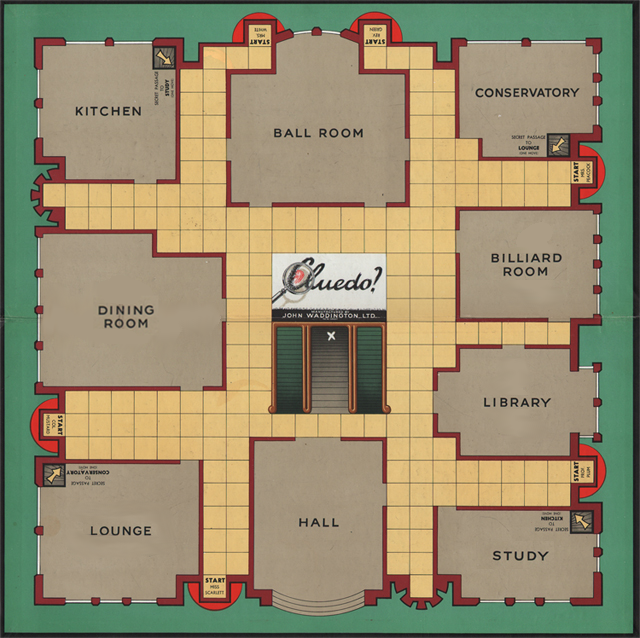
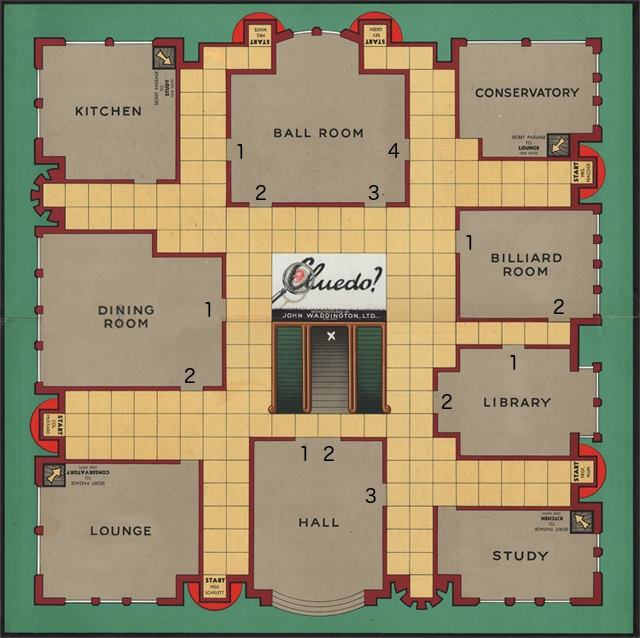
Leaving Room

diff --git a/CluedoGameAssignment2/src/SendMessageButtonListener.java b/CluedoGameAssignment2/src/SendMessageButtonListener.java
@@ -9,7 +9,7 @@ public class SendMessageButtonListener implements ActionListener {
 	
 	public int i=0;
 	public int done=0;
-	public int moveCounter;
+	public static int moveCounter;
 	public boolean error=false;
 	
 	public Board board;
@@ -104,8 +104,6 @@ public class SendMessageButtonListener implements ActionListener {
 						board.tokenAL.get(i%Main.numPlayers).setBounds(board.tokenAL.get(i%Main.numPlayers).xcoordinate, board.tokenAL.get(i%Main.numPlayers).ycoordinate, board.tokenAL.get(i%Main.numPlayers).imageIcon.getIconWidth(), board.tokenAL.get(i%Main.numPlayers).imageIcon.getIconHeight());
 					}
 					else if(board.tokenAL.get(i%Main.numPlayers).slot == 9) {
-						board.tokenAL.get(i%Main.numPlayers).AddtoKitchen();
-						board.tokenAL.get(i%Main.numPlayers).setBounds(board.tokenAL.get(i%Main.numPlayers).xcoordinate, board.tokenAL.get(i%Main.numPlayers).ycoordinate, board.tokenAL.get(i%Main.numPlayers).imageIcon.getIconWidth(), board.tokenAL.get(i%Main.numPlayers).imageIcon.getIconHeight());
 					}
 					else if(board.tokenAL.get(i%Main.numPlayers).slot == 3) {
 						board.tokenAL.get(i%Main.numPlayers).AddtoLounge();
@@ -400,6 +398,207 @@ public class SendMessageButtonListener implements ActionListener {
 	public void diceRoll(Display display, TextualCommand textualcommand) {
 		display.textarea.append(textualcommand.textfield.getText() + "\n" + "<-------" + Main.playerNames[i%Main.numPlayers]+" rolled the dice ------->\n");	
 		display.textarea.append("<" + Main.playerNames[i%Main.numPlayers] + " has " + moveCounter +" moves.>" );
+		ExitOption();
+	}
+	
+	//Exit option
+	public void ExitOption() {
+		if(board.tokenAL.get(i%Main.numPlayers).slot != 0) {
+			String text = textualcommand.textfield.getText().trim();
+			
+			if(board.tokenAL.get(i%Main.numPlayers).slot == 1 || board.tokenAL.get(i%Main.numPlayers).slot == 3 || board.tokenAL.get(i%Main.numPlayers).slot == 7 || board.tokenAL.get(i%Main.numPlayers).slot == 9) {
+				int accepted = 0;
+				
+				if(board.tokenAL.get(i%Main.numPlayers).slot == 1) {
+					while(accepted == 0) {
+						display.textarea.append("Would you like to exit or use a passage" );
+						text = textualcommand.textfield.getText().trim();
+						
+						if(text.equalsIgnoreCase("exit")) {
+							accepted = 1;
+							board.tokenAL.get(i%Main.numPlayers).xcoordinate = Board.KitchenEntrancex;
+							board.tokenAL.get(i%Main.numPlayers).ycoordinate = Board.KitchenEntrancey;
+							board.tokenAL.get(i%Main.numPlayers).setBounds(board.tokenAL.get(i%Main.numPlayers).xcoordinate, board.tokenAL.get(i%Main.numPlayers).ycoordinate, board.tokenAL.get(i%Main.numPlayers).imageIcon.getIconWidth(), board.tokenAL.get(i%Main.numPlayers).imageIcon.getIconHeight());
+							
+						}
+						else if(text.equalsIgnoreCase("passage")) {
+							accepted = 1;
+							board.tokenAL.get(i%Main.numPlayers).AddtoStudy();
+							board.tokenAL.get(i%Main.numPlayers).setBounds(board.tokenAL.get(i%Main.numPlayers).xcoordinate, board.tokenAL.get(i%Main.numPlayers).ycoordinate, board.tokenAL.get(i%Main.numPlayers).imageIcon.getIconWidth(), board.tokenAL.get(i%Main.numPlayers).imageIcon.getIconHeight());
+						}
+					}
+				}
+				else if(board.tokenAL.get(i%Main.numPlayers).slot == 3) {
+					while(accepted == 0) {
+						display.textarea.append("Would you like to exit or use a passage" );
+						text = textualcommand.textfield.getText().trim();
+						
+						if(text.equalsIgnoreCase("exit")) {
+							accepted = 1;
+							board.tokenAL.get(i%Main.numPlayers).xcoordinate = Board.ConservatoryEntrancex;
+							board.tokenAL.get(i%Main.numPlayers).ycoordinate = Board.ConservatoryEntrancey;
+							board.tokenAL.get(i%Main.numPlayers).setBounds(board.tokenAL.get(i%Main.numPlayers).xcoordinate, board.tokenAL.get(i%Main.numPlayers).ycoordinate, board.tokenAL.get(i%Main.numPlayers).imageIcon.getIconWidth(), board.tokenAL.get(i%Main.numPlayers).imageIcon.getIconHeight());
+							
+						}
+						else if(text.equalsIgnoreCase("passage")) {
+							accepted = 1;
+							board.tokenAL.get(i%Main.numPlayers).AddtoLounge();
+							board.tokenAL.get(i%Main.numPlayers).setBounds(board.tokenAL.get(i%Main.numPlayers).xcoordinate, board.tokenAL.get(i%Main.numPlayers).ycoordinate, board.tokenAL.get(i%Main.numPlayers).imageIcon.getIconWidth(), board.tokenAL.get(i%Main.numPlayers).imageIcon.getIconHeight());
+						}
+					}
+				}
+				else if(board.tokenAL.get(i%Main.numPlayers).slot == 7) {
+					while(accepted == 0) {
+						display.textarea.append("Would you like to exit or use a passage" );
+						text = textualcommand.textfield.getText().trim();
+						
+						if(text.equalsIgnoreCase("exit")) {
+							accepted = 1;
+							board.tokenAL.get(i%Main.numPlayers).xcoordinate = Board.LoungeEntrancex;
+							board.tokenAL.get(i%Main.numPlayers).ycoordinate = Board.LoungeEntrancey;
+							board.tokenAL.get(i%Main.numPlayers).setBounds(board.tokenAL.get(i%Main.numPlayers).xcoordinate, board.tokenAL.get(i%Main.numPlayers).ycoordinate, board.tokenAL.get(i%Main.numPlayers).imageIcon.getIconWidth(), board.tokenAL.get(i%Main.numPlayers).imageIcon.getIconHeight());
+							
+						}
+						else if(text.equalsIgnoreCase("passage")) {
+							accepted = 1;
+							board.tokenAL.get(i%Main.numPlayers).AddtoConservatory();
+							board.tokenAL.get(i%Main.numPlayers).setBounds(board.tokenAL.get(i%Main.numPlayers).xcoordinate, board.tokenAL.get(i%Main.numPlayers).ycoordinate, board.tokenAL.get(i%Main.numPlayers).imageIcon.getIconWidth(), board.tokenAL.get(i%Main.numPlayers).imageIcon.getIconHeight());
+						}
+					}
+				}
+				else {
+					while(accepted == 0) {
+						display.textarea.append("Would you like to exit or use a passage" );
+						text = textualcommand.textfield.getText().trim();
+						
+						if(text.equalsIgnoreCase("exit")) {
+							accepted = 1;
+							board.tokenAL.get(i%Main.numPlayers).xcoordinate = Board.StudyEntrancex;
+							board.tokenAL.get(i%Main.numPlayers).ycoordinate = Board.StudyEntrancey;
+							board.tokenAL.get(i%Main.numPlayers).setBounds(board.tokenAL.get(i%Main.numPlayers).xcoordinate, board.tokenAL.get(i%Main.numPlayers).ycoordinate, board.tokenAL.get(i%Main.numPlayers).imageIcon.getIconWidth(), board.tokenAL.get(i%Main.numPlayers).imageIcon.getIconHeight());
+							
+						}
+						else if(text.equalsIgnoreCase("passage")) {
+							accepted = 1;
+							board.tokenAL.get(i%Main.numPlayers).AddtoKitchen();
+							board.tokenAL.get(i%Main.numPlayers).setBounds(board.tokenAL.get(i%Main.numPlayers).xcoordinate, board.tokenAL.get(i%Main.numPlayers).ycoordinate, board.tokenAL.get(i%Main.numPlayers).imageIcon.getIconWidth(), board.tokenAL.get(i%Main.numPlayers).imageIcon.getIconHeight());
+						}
+					}
+				}
+			}
+
+			else {
+				display.textarea.append("Choose an exit (1-4)");
+				int accepted = 0;
+				
+				if(board.tokenAL.get(i%Main.numPlayers).slot == 2) {
+					while(accepted == 0) {
+						text = textualcommand.textfield.getText().trim();
+						
+						if(text.equalsIgnoreCase("1")) {
+							accepted = 1;
+							board.tokenAL.get(i%Main.numPlayers).xcoordinate = Board.BallRoomEntrance1x;
+							board.tokenAL.get(i%Main.numPlayers).ycoordinate = Board.BallRoomEntrance1y;
+							board.tokenAL.get(i%Main.numPlayers).setBounds(board.tokenAL.get(i%Main.numPlayers).xcoordinate, board.tokenAL.get(i%Main.numPlayers).ycoordinate, board.tokenAL.get(i%Main.numPlayers).imageIcon.getIconWidth(), board.tokenAL.get(i%Main.numPlayers).imageIcon.getIconHeight());
+						}
+						else if(text.equalsIgnoreCase("2")) {
+							accepted = 1;
+							board.tokenAL.get(i%Main.numPlayers).xcoordinate = Board.BallRoomEntrance2x;
+							board.tokenAL.get(i%Main.numPlayers).ycoordinate = Board.BallRoomEntrance2y;
+							board.tokenAL.get(i%Main.numPlayers).setBounds(board.tokenAL.get(i%Main.numPlayers).xcoordinate, board.tokenAL.get(i%Main.numPlayers).ycoordinate, board.tokenAL.get(i%Main.numPlayers).imageIcon.getIconWidth(), board.tokenAL.get(i%Main.numPlayers).imageIcon.getIconHeight());
+						}
+						else if(text.equalsIgnoreCase("3")) {
+							accepted = 1;
+							board.tokenAL.get(i%Main.numPlayers).xcoordinate = Board.BallRoomEntrance3x;
+							board.tokenAL.get(i%Main.numPlayers).ycoordinate = Board.BallRoomEntrance3y;
+							board.tokenAL.get(i%Main.numPlayers).setBounds(board.tokenAL.get(i%Main.numPlayers).xcoordinate, board.tokenAL.get(i%Main.numPlayers).ycoordinate, board.tokenAL.get(i%Main.numPlayers).imageIcon.getIconWidth(), board.tokenAL.get(i%Main.numPlayers).imageIcon.getIconHeight());
+						}
+						else if(text.equalsIgnoreCase("4")) {
+							accepted = 1;
+							board.tokenAL.get(i%Main.numPlayers).xcoordinate = Board.BallRoomEntrance4x;
+							board.tokenAL.get(i%Main.numPlayers).ycoordinate = Board.BallRoomEntrance4y;
+							board.tokenAL.get(i%Main.numPlayers).setBounds(board.tokenAL.get(i%Main.numPlayers).xcoordinate, board.tokenAL.get(i%Main.numPlayers).ycoordinate, board.tokenAL.get(i%Main.numPlayers).imageIcon.getIconWidth(), board.tokenAL.get(i%Main.numPlayers).imageIcon.getIconHeight());
+						}
+					}
+				}
+				else if(board.tokenAL.get(i%Main.numPlayers).slot == 4) {
+					while(accepted == 0) {
+						text = textualcommand.textfield.getText().trim();
+						
+						if(text.equalsIgnoreCase("1")) {
+							accepted = 1;
+							board.tokenAL.get(i%Main.numPlayers).xcoordinate = Board.DiningRoomEntrance1x;
+							board.tokenAL.get(i%Main.numPlayers).ycoordinate = Board.DiningRoomEntrance1y;
+							board.tokenAL.get(i%Main.numPlayers).setBounds(board.tokenAL.get(i%Main.numPlayers).xcoordinate, board.tokenAL.get(i%Main.numPlayers).ycoordinate, board.tokenAL.get(i%Main.numPlayers).imageIcon.getIconWidth(), board.tokenAL.get(i%Main.numPlayers).imageIcon.getIconHeight());
+							
+						}
+						else if(text.equalsIgnoreCase("2")) {
+							accepted = 1;
+							board.tokenAL.get(i%Main.numPlayers).xcoordinate = Board.DiningRoomEntrance2x;
+							board.tokenAL.get(i%Main.numPlayers).ycoordinate = Board.DiningRoomEntrance2y;
+							board.tokenAL.get(i%Main.numPlayers).setBounds(board.tokenAL.get(i%Main.numPlayers).xcoordinate, board.tokenAL.get(i%Main.numPlayers).ycoordinate, board.tokenAL.get(i%Main.numPlayers).imageIcon.getIconWidth(), board.tokenAL.get(i%Main.numPlayers).imageIcon.getIconHeight());
+						}
+					}
+				}
+				else if(board.tokenAL.get(i%Main.numPlayers).slot == 5) {
+					while(accepted == 0) {
+						text = textualcommand.textfield.getText().trim();
+						
+						if(text.equalsIgnoreCase("1")) {
+							accepted = 1;
+							board.tokenAL.get(i%Main.numPlayers).xcoordinate = Board.BilliardRoomEntrance1x;
+							board.tokenAL.get(i%Main.numPlayers).ycoordinate = Board.BilliardRoomEntrance1y;
+							board.tokenAL.get(i%Main.numPlayers).setBounds(board.tokenAL.get(i%Main.numPlayers).xcoordinate, board.tokenAL.get(i%Main.numPlayers).ycoordinate, board.tokenAL.get(i%Main.numPlayers).imageIcon.getIconWidth(), board.tokenAL.get(i%Main.numPlayers).imageIcon.getIconHeight());
+							
+						}
+						else if(text.equalsIgnoreCase("2")) {
+							accepted = 1;
+							board.tokenAL.get(i%Main.numPlayers).xcoordinate = Board.BilliardRoomEntrance2x;
+							board.tokenAL.get(i%Main.numPlayers).ycoordinate = Board.BilliardRoomEntrance2y;
+							board.tokenAL.get(i%Main.numPlayers).setBounds(board.tokenAL.get(i%Main.numPlayers).xcoordinate, board.tokenAL.get(i%Main.numPlayers).ycoordinate, board.tokenAL.get(i%Main.numPlayers).imageIcon.getIconWidth(), board.tokenAL.get(i%Main.numPlayers).imageIcon.getIconHeight());
+						}
+					}
+				}
+				else if(board.tokenAL.get(i%Main.numPlayers).slot == 6) {
+					while(accepted == 0) {
+						text = textualcommand.textfield.getText().trim();
+						
+						if(text.equalsIgnoreCase("1")) {
+							accepted = 1;
+							board.tokenAL.get(i%Main.numPlayers).xcoordinate = Board.LibraryEntrance1x;
+							board.tokenAL.get(i%Main.numPlayers).ycoordinate = Board.LibraryEntrance1y;
+							board.tokenAL.get(i%Main.numPlayers).setBounds(board.tokenAL.get(i%Main.numPlayers).xcoordinate, board.tokenAL.get(i%Main.numPlayers).ycoordinate, board.tokenAL.get(i%Main.numPlayers).imageIcon.getIconWidth(), board.tokenAL.get(i%Main.numPlayers).imageIcon.getIconHeight());
+							
+						}
+						else if(text.equalsIgnoreCase("2")) {
+							accepted = 1;
+							board.tokenAL.get(i%Main.numPlayers).xcoordinate = Board.LibraryEntrance2x;
+							board.tokenAL.get(i%Main.numPlayers).ycoordinate = Board.LibraryEntrance2y;
+							board.tokenAL.get(i%Main.numPlayers).setBounds(board.tokenAL.get(i%Main.numPlayers).xcoordinate, board.tokenAL.get(i%Main.numPlayers).ycoordinate, board.tokenAL.get(i%Main.numPlayers).imageIcon.getIconWidth(), board.tokenAL.get(i%Main.numPlayers).imageIcon.getIconHeight());
+						}
+					}
+				}
+				else {
+					while(accepted == 0) {
+						text = textualcommand.textfield.getText().trim();
+						
+						if(text.equalsIgnoreCase("1")) {
+							accepted = 1;
+							board.tokenAL.get(i%Main.numPlayers).xcoordinate = Board.HallEntrance1x;
+							board.tokenAL.get(i%Main.numPlayers).ycoordinate = Board.HallEntrance1y;
+							board.tokenAL.get(i%Main.numPlayers).setBounds(board.tokenAL.get(i%Main.numPlayers).xcoordinate, board.tokenAL.get(i%Main.numPlayers).ycoordinate, board.tokenAL.get(i%Main.numPlayers).imageIcon.getIconWidth(), board.tokenAL.get(i%Main.numPlayers).imageIcon.getIconHeight());
+							
+						}
+						else if(text.equalsIgnoreCase("2")) {
+							accepted = 1;
+							board.tokenAL.get(i%Main.numPlayers).xcoordinate = Board.HallEntrance2x;
+							board.tokenAL.get(i%Main.numPlayers).ycoordinate = Board.HallEntrance2y;
+							board.tokenAL.get(i%Main.numPlayers).setBounds(board.tokenAL.get(i%Main.numPlayers).xcoordinate, board.tokenAL.get(i%Main.numPlayers).ycoordinate, board.tokenAL.get(i%Main.numPlayers).imageIcon.getIconWidth(), board.tokenAL.get(i%Main.numPlayers).imageIcon.getIconHeight());
+						}
+					}
+				}
+			}
+		}
 	}
 	
 	//outputs remaining moves
@@ -494,7 +693,7 @@ public class SendMessageButtonListener implements ActionListener {
 		//moves still left
 		else { 
 			if(error == false) {
-				appendAndRemove();
+				//appendAndRemove();
 			}
 		}
 			

diff --git a/CluedoGameAssignment2/src/Token.java b/CluedoGameAssignment2/src/Token.java
@@ -301,6 +301,9 @@ public class Token extends JLabel{
 				this.xcoordinate = Board.KitchenSlots[1][i];
 				this.ycoordinate = Board.KitchenSlots[2][i];
 				
+				//Set moves to 0
+				SendMessageButtonListener.moveCounter = 0;
+				
 				//Exit the loop
 				break;
 			}
@@ -318,6 +321,9 @@ public class Token extends JLabel{
 				//Move the token to the slot
 				this.xcoordinate = Board.BallRoomSlots[1][i];
 				this.ycoordinate = Board.BallRoomSlots[2][i];
+				
+				//Set moves to 0
+				SendMessageButtonListener.moveCounter = 0;
 				
 				//Exit the loop
 				break;
@@ -337,6 +343,9 @@ public class Token extends JLabel{
 				this.xcoordinate = Board.ConservatorySlots[1][i];
 				this.ycoordinate = Board.ConservatorySlots[2][i];
 				
+				//Set moves to 0
+				SendMessageButtonListener.moveCounter = 0;
+				
 				//Exit the loop
 				break;
 			}
@@ -354,6 +363,9 @@ public class Token extends JLabel{
 				//Move the token to the slot
 				this.xcoordinate = Board.DiningRoomSlots[1][i];
 				this.ycoordinate = Board.DiningRoomSlots[2][i];
+				
+				//Set moves to 0
+				SendMessageButtonListener.moveCounter = 0;
 				
 				//Exit the loop
 				break;
@@ -373,6 +385,9 @@ public class Token extends JLabel{
 				this.xcoordinate = Board.BilliardRoomSlots[1][i];
 				this.ycoordinate = Board.BilliardRoomSlots[2][i];
 				
+				//Set moves to 0
+				SendMessageButtonListener.moveCounter = 0;
+				
 				//Exit the loop
 				break;
 			}
@@ -390,6 +405,9 @@ public class Token extends JLabel{
 				//Move the token to the slot
 				this.xcoordinate = Board.LibrarySlots[1][i];
 				this.ycoordinate = Board.LibrarySlots[2][i];
+				
+				//Set moves to 0
+				SendMessageButtonListener.moveCounter = 0;
 				
 				//Exit the loop
 				break;
@@ -409,6 +427,9 @@ public class Token extends JLabel{
 				this.xcoordinate = Board.LoungeSlots[1][i];
 				this.ycoordinate = Board.LoungeSlots[2][i];
 				
+				//Set moves to 0
+				SendMessageButtonListener.moveCounter = 0;
+				
 				//Exit the loop
 				break;
 			}
@@ -427,6 +448,9 @@ public class Token extends JLabel{
 				this.xcoordinate = Board.HallSlots[1][i];
 				this.ycoordinate = Board.HallSlots[2][i];
 				
+				//Set moves to 0
+				SendMessageButtonListener.moveCounter = 0;
+				
 				//Exit the loop
 				break;
 			}
@@ -444,6 +468,9 @@ public class Token extends JLabel{
 				//Move the token to the slot
 				this.xcoordinate = Board.StudySlots[1][i];
 				this.ycoordinate = Board.StudySlots[2][i];
+				
+				//Set moves to 0
+				SendMessageButtonListener.moveCounter = 0;
 				
 				//Exit the loop
 				break;
